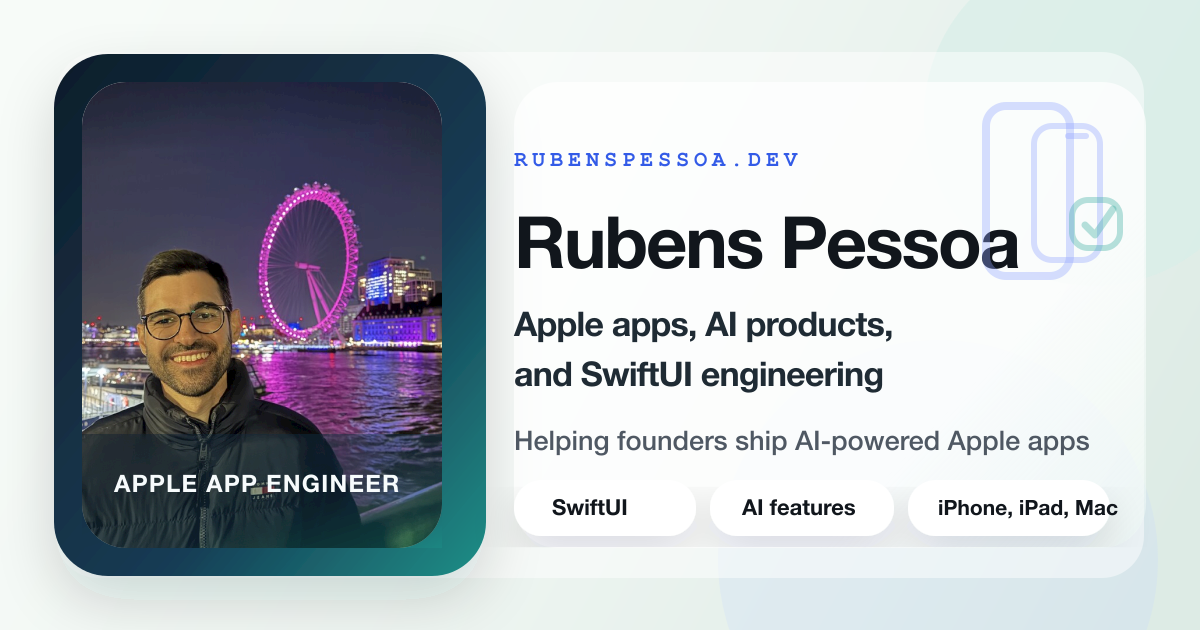
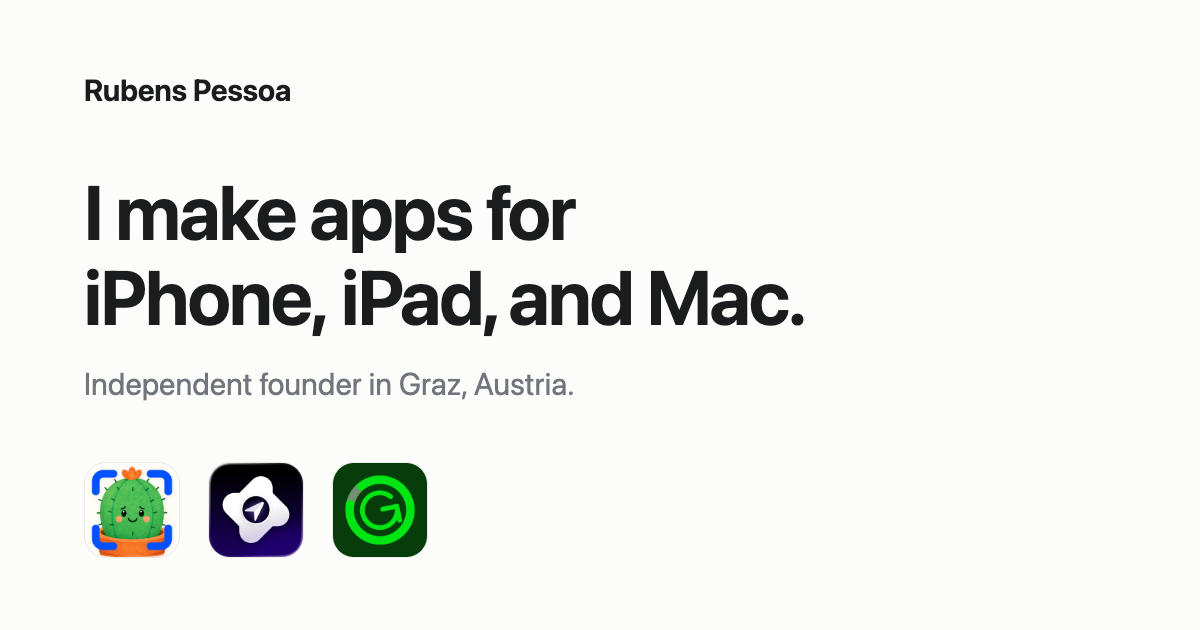
Add SEO polish: app JSON-LD, new social card, 404 page, clearer SMC CTA
- SoftwareApplication structured data for Save My Cactus, Hustlrr, Giorni
- Regenerate social card to match founder positioning (source in
  src/assets/social-card.html, rendered at 1200x630)
- Custom 404 page
- Save My Cactus card links 'Learn more' instead of bare domain

diff --git a/src/assets/social-card.html b/src/assets/social-card.html
@@ -1,0 +1,68 @@
+<!--
+  Source for public/images/seo/social-card.png (1200x630).
+  To regenerate: open this file in Chrome at a 1200x630 viewport and
+  screenshot it (or: npx playwright screenshot --viewport-size=1200,630
+  src/assets/social-card.html public/images/seo/social-card.png).
+  Icon paths are relative to this file's location in the repo.
+-->
+<!DOCTYPE html>
+<html lang="en">
+<head>
+<meta charset="UTF-8">
+<style>
+  * { margin: 0; box-sizing: border-box; }
+  html, body { width: 1200px; height: 630px; overflow: hidden; }
+  body {
+    font-family: -apple-system, BlinkMacSystemFont, "SF Pro Display", "Segoe UI", Roboto, sans-serif;
+    background: #fcfcfa;
+    color: #1a1c1e;
+    display: flex;
+    flex-direction: column;
+    justify-content: space-between;
+    padding: 72px 84px;
+  }
+  .brand {
+    font-size: 30px;
+    font-weight: 650;
+    letter-spacing: -0.01em;
+  }
+  h1 {
+    font-size: 76px;
+    font-weight: 650;
+    letter-spacing: -0.02em;
+    line-height: 1.12;
+    max-width: 17ch;
+  }
+  .sub {
+    margin-top: 26px;
+    font-size: 31px;
+    color: #71767c;
+  }
+  .apps {
+    display: flex;
+    align-items: center;
+    gap: 28px;
+  }
+  .apps img {
+    width: 96px;
+    height: 96px;
+    border-radius: 22px;
+    border: 1px solid rgba(26, 28, 30, 0.08);
+  }
+</style>
+</head>
+<body>
+  <div class="brand">Rubens Pessoa</div>
+
+  <div>
+    <h1>I make apps for iPhone,&nbsp;iPad, and&nbsp;Mac.</h1>
+    <p class="sub">Independent founder in Graz, Austria.</p>
+  </div>
+
+  <div class="apps">
+    <img src="../../public/images/apps/save-my-cactus-icon.png" alt="">
+    <img src="../../public/images/apps/hustlrr-icon.jpg" alt="">
+    <img src="../../public/images/apps/giorni-icon.jpg" alt="">
+  </div>
+</body>
+</html>
